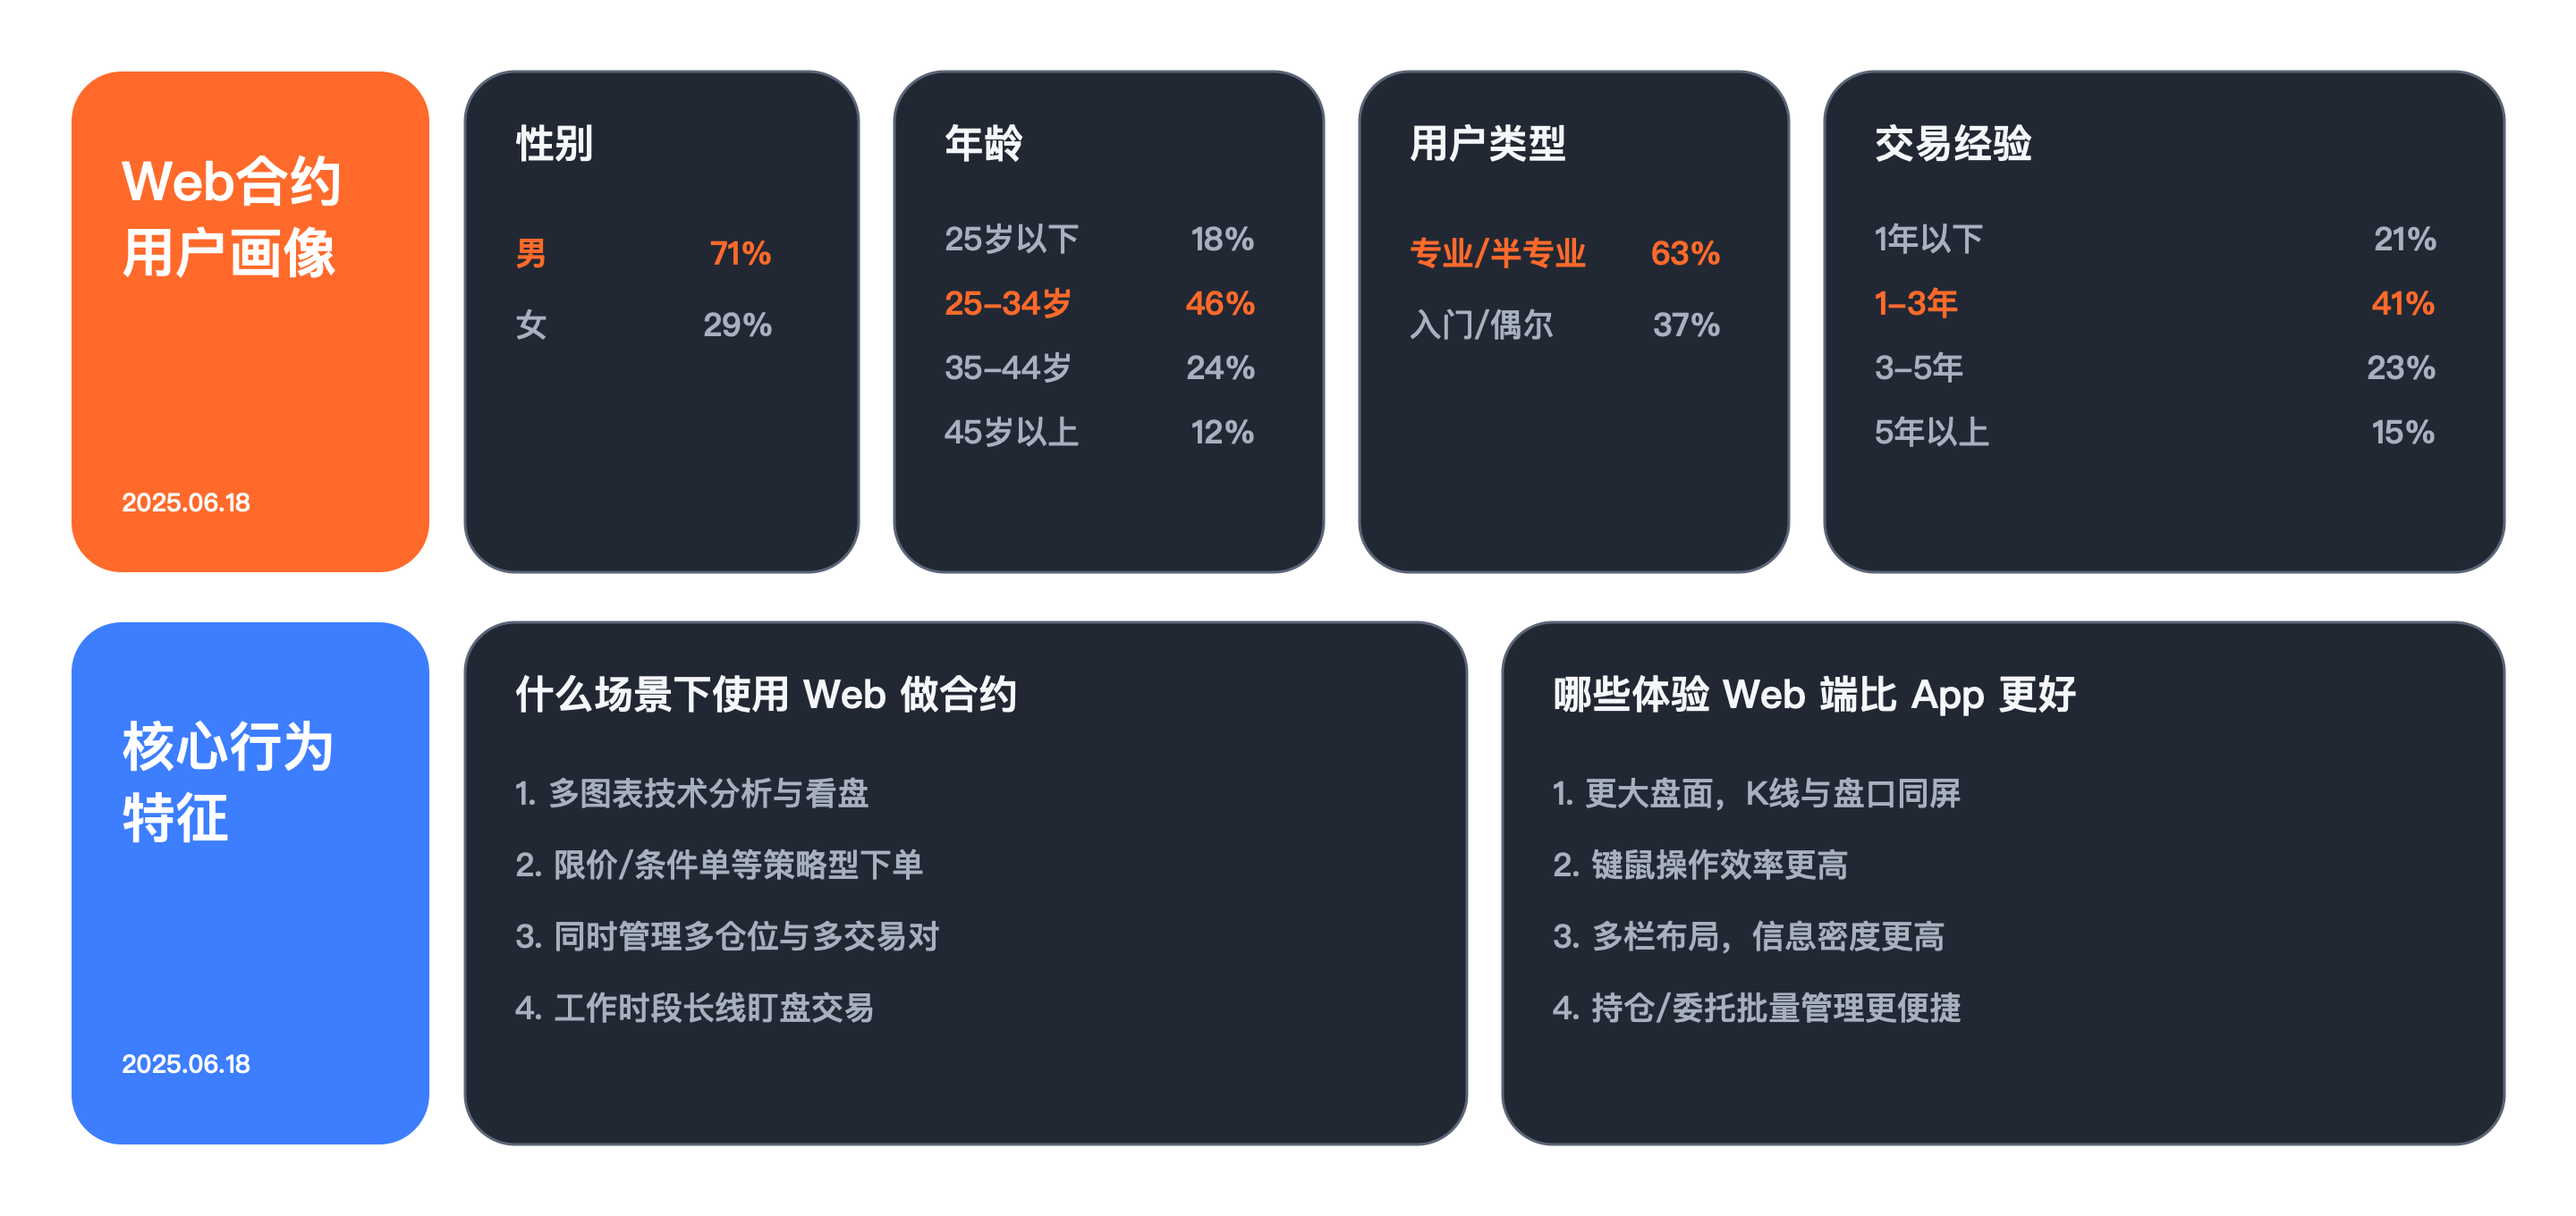
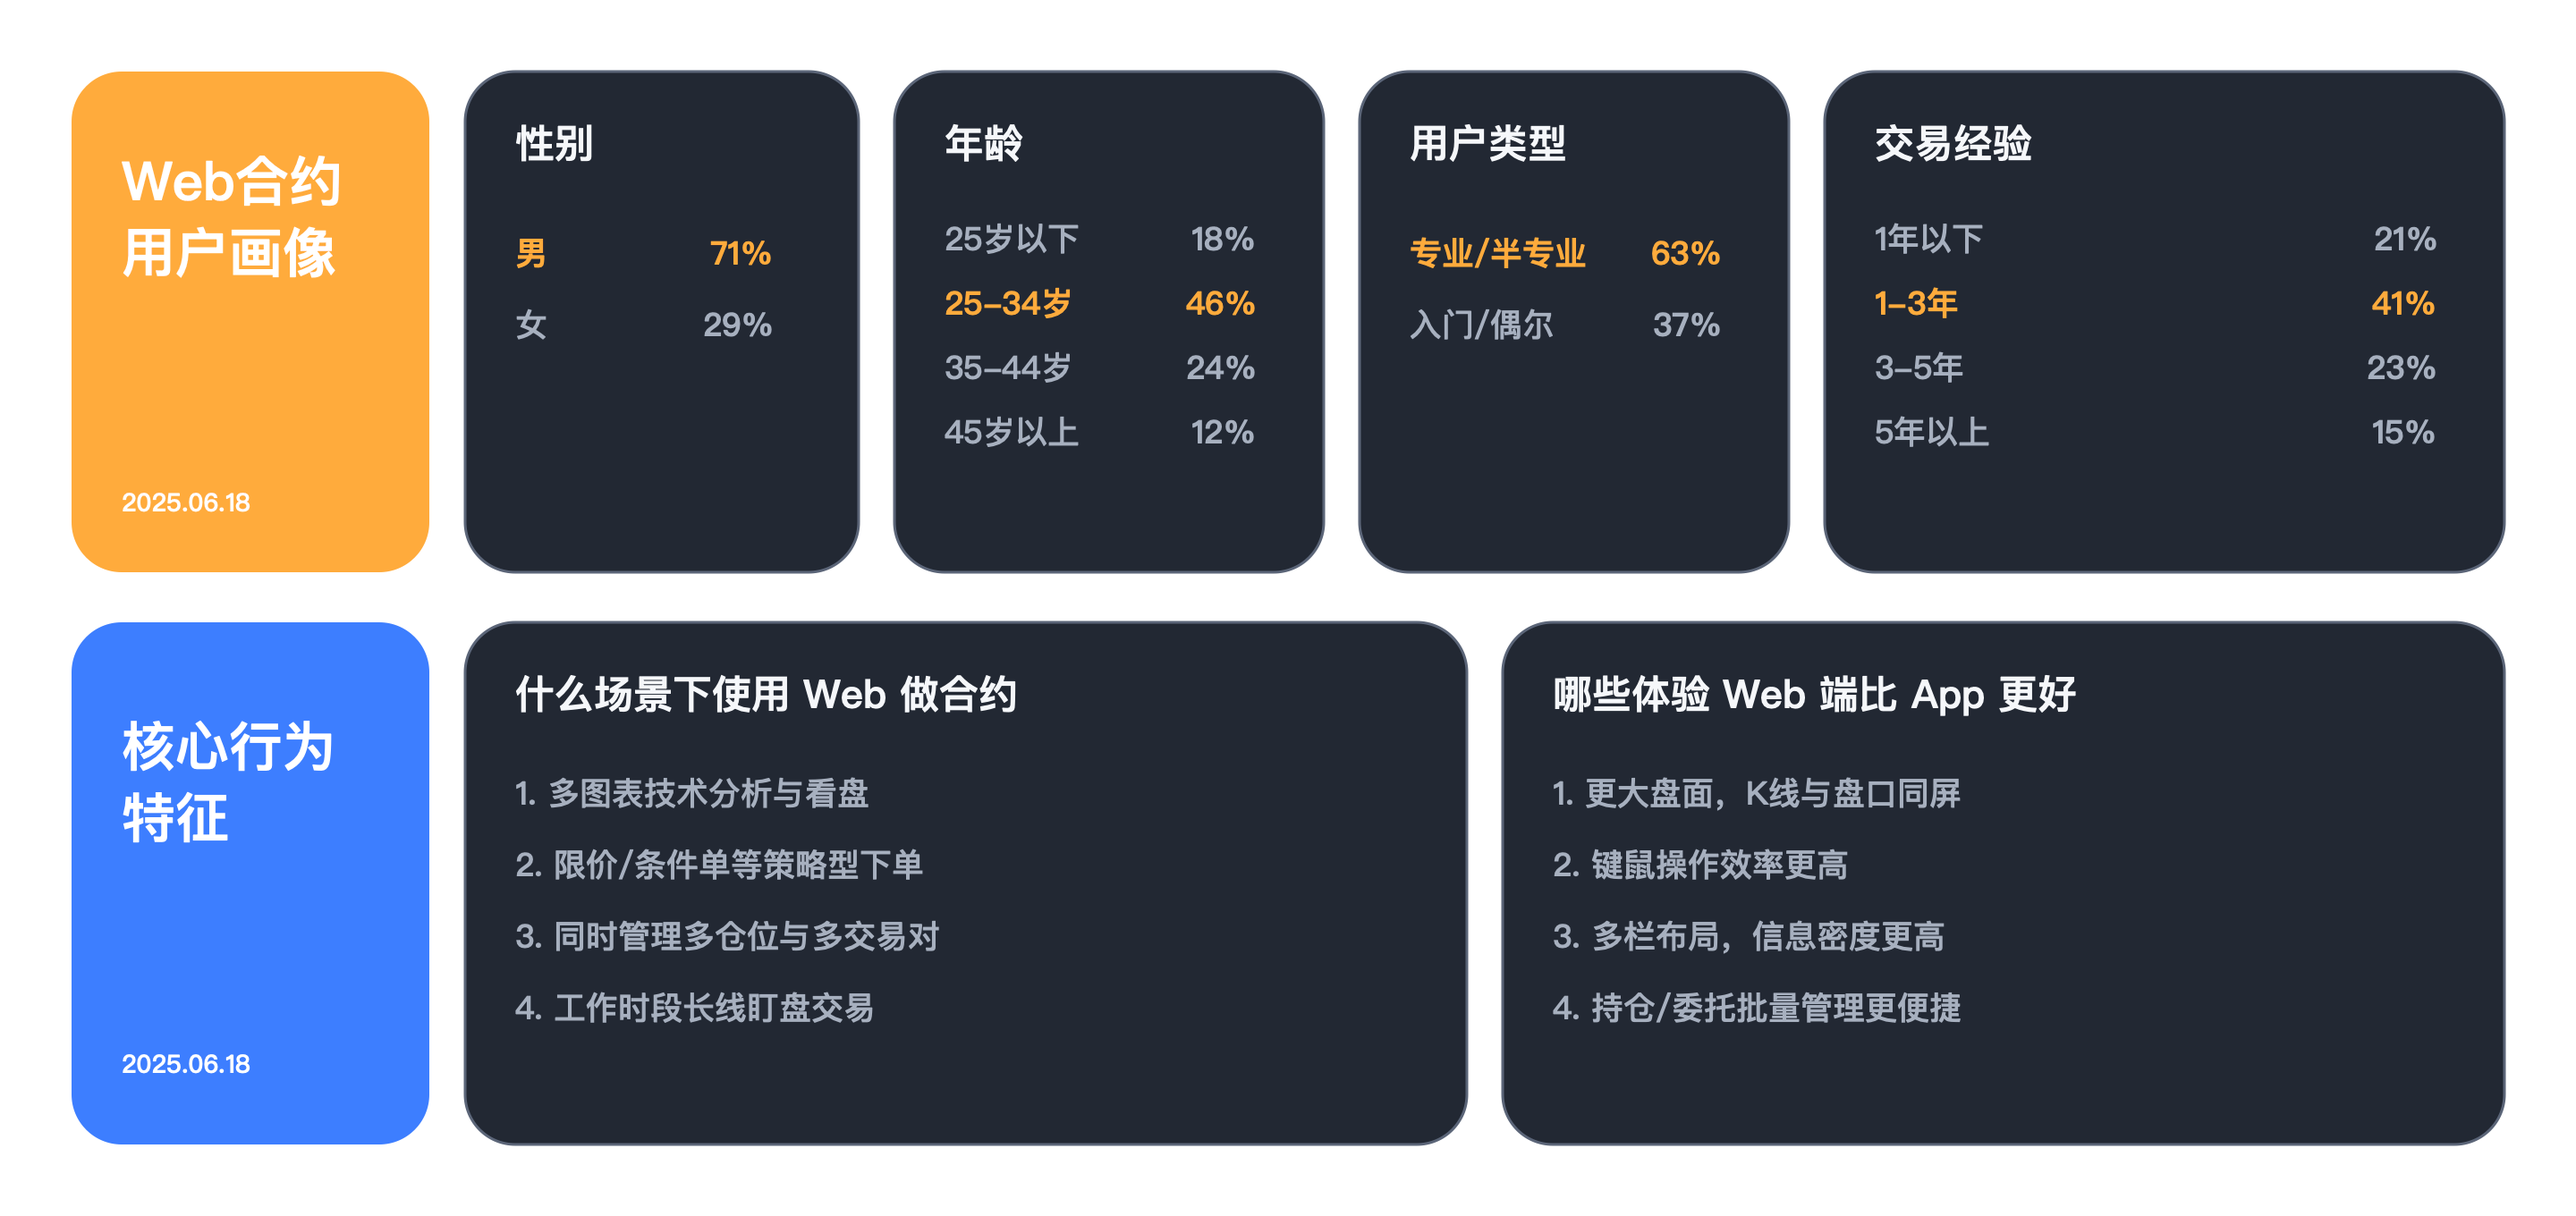
Polish portfolio copy and web-trade case visuals.
Update work/experience labels, soften research orange, and remove BingX logos from chart before/after shots.

diff --git a/src/data/works.ts b/src/data/works.ts
@@ -27,10 +27,10 @@ export const works: WorkItem[] = [
   {
     id: '2',
     slug: 'perpetuals-lite',
-    title: 'BingX 永续合约轻量版',
+    title: '永续合约轻量版',
     cover: '/work-9.jpg',
     accent: '#b8f53a',
-    start: '2026.06',
+    start: '2026.05',
     end: '2026.07',
     role: '竞品分析 / 交互设计 / 视觉设计',
     description:
@@ -43,7 +43,7 @@ export const works: WorkItem[] = [
     cover: '/work-10.png',
     accent: '#7dd3fc',
     start: '2019.01',
-    end: '2022.06',
+    end: '2022.04',
     role: '主设计师 / 团队管理',
     description:
       '从 0 到 1 定义腾讯会议跨端体验骨架，用研究方法、场景拆解与数据闭环，把产品带到国民级会议工具与腾讯云第一 SaaS。',
@@ -55,8 +55,8 @@ export const works: WorkItem[] = [
     cover: '/work-11.jpg',
     accent: '#0052d9',
     start: '2018.01',
-    end: '2022.06',
-    role: '设计副总监 / 团队管理',
+    end: '2022.04',
+    role: '设计组长 / 团队管理',
     description:
       '统筹政务一线、云控制台、知识平台与设计体系等多条业务线，把团队设计与方法沉淀为可规模化的交付能力。',
   },

diff --git a/src/data/experiences.ts b/src/data/experiences.ts
@@ -59,7 +59,7 @@ export const experiences: Experience[] = [
     start: '2010',
     end: '2015',
     position: '高级交互设计师',
-    company: '腾讯电脑管家',
+    company: '腾讯',
     description:
       '负责桌面安全软件（腾讯电脑管家）7.0 全面重构 Redesign，贯穿产品生命周期支持设计与创新；面向项目组制定并推广 UI 设计规范，提升易用性共识与设计效率；深入掌握 PC 端用户习惯与全流程体验设计方法。',
   },
